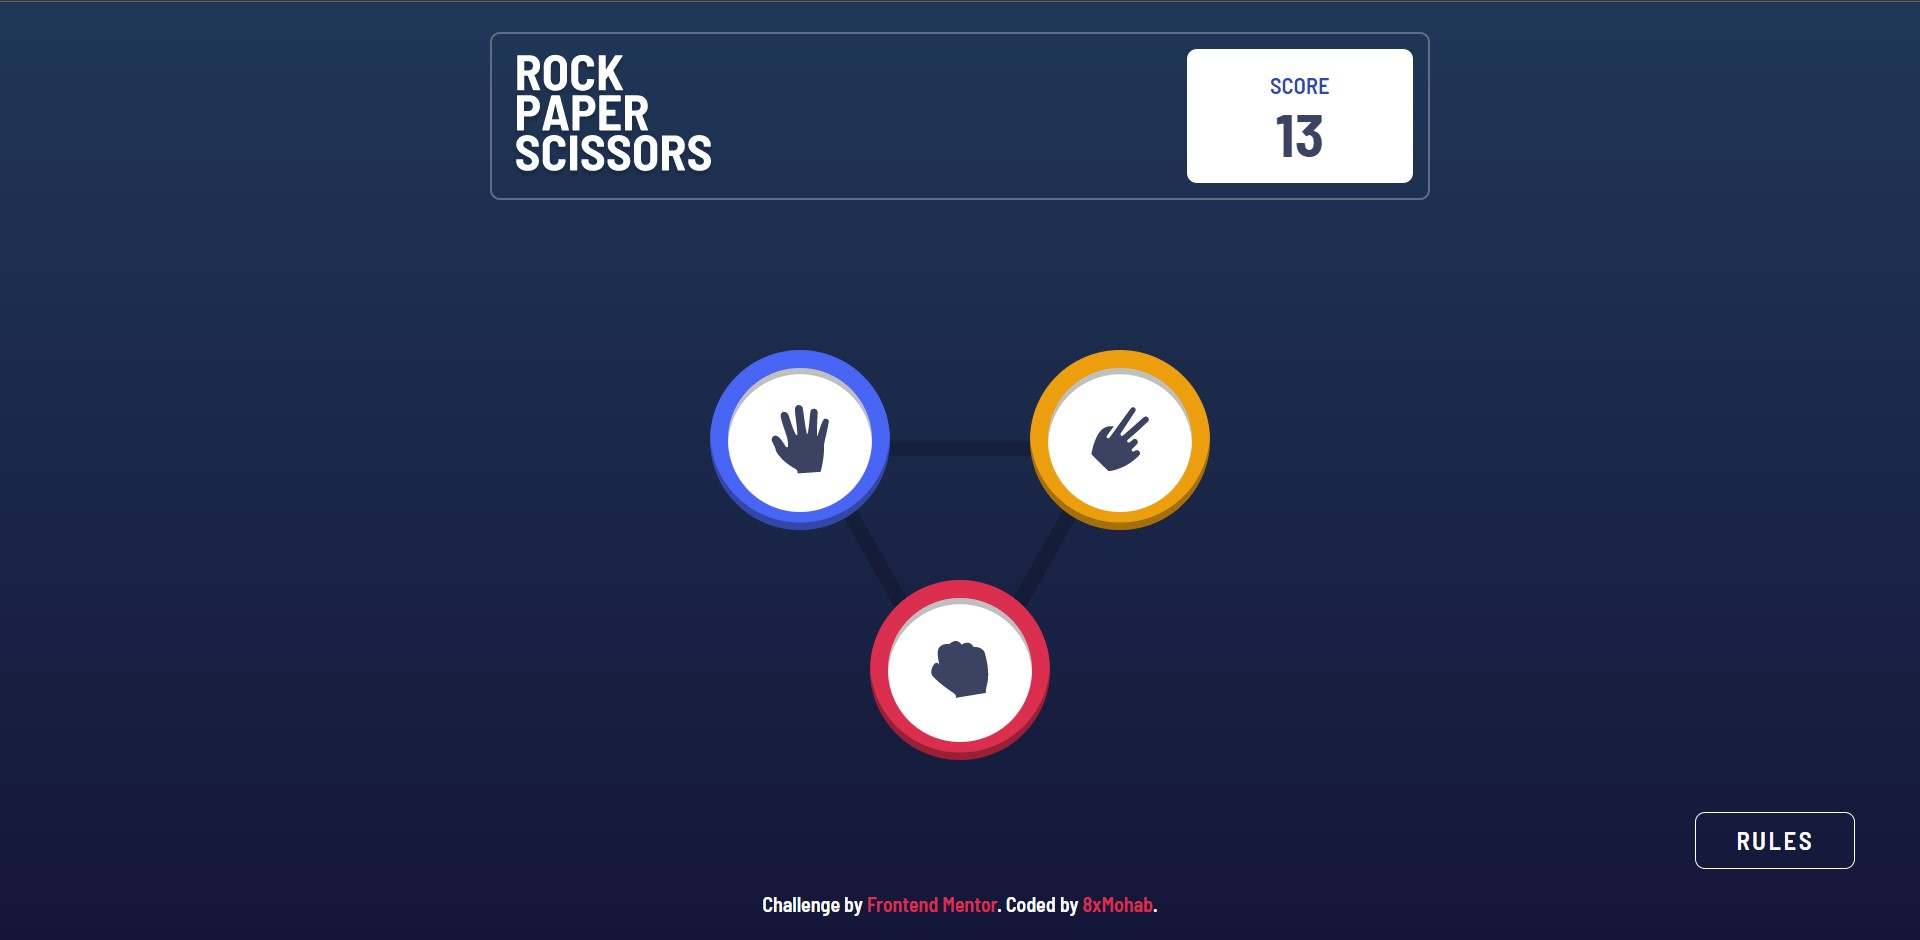
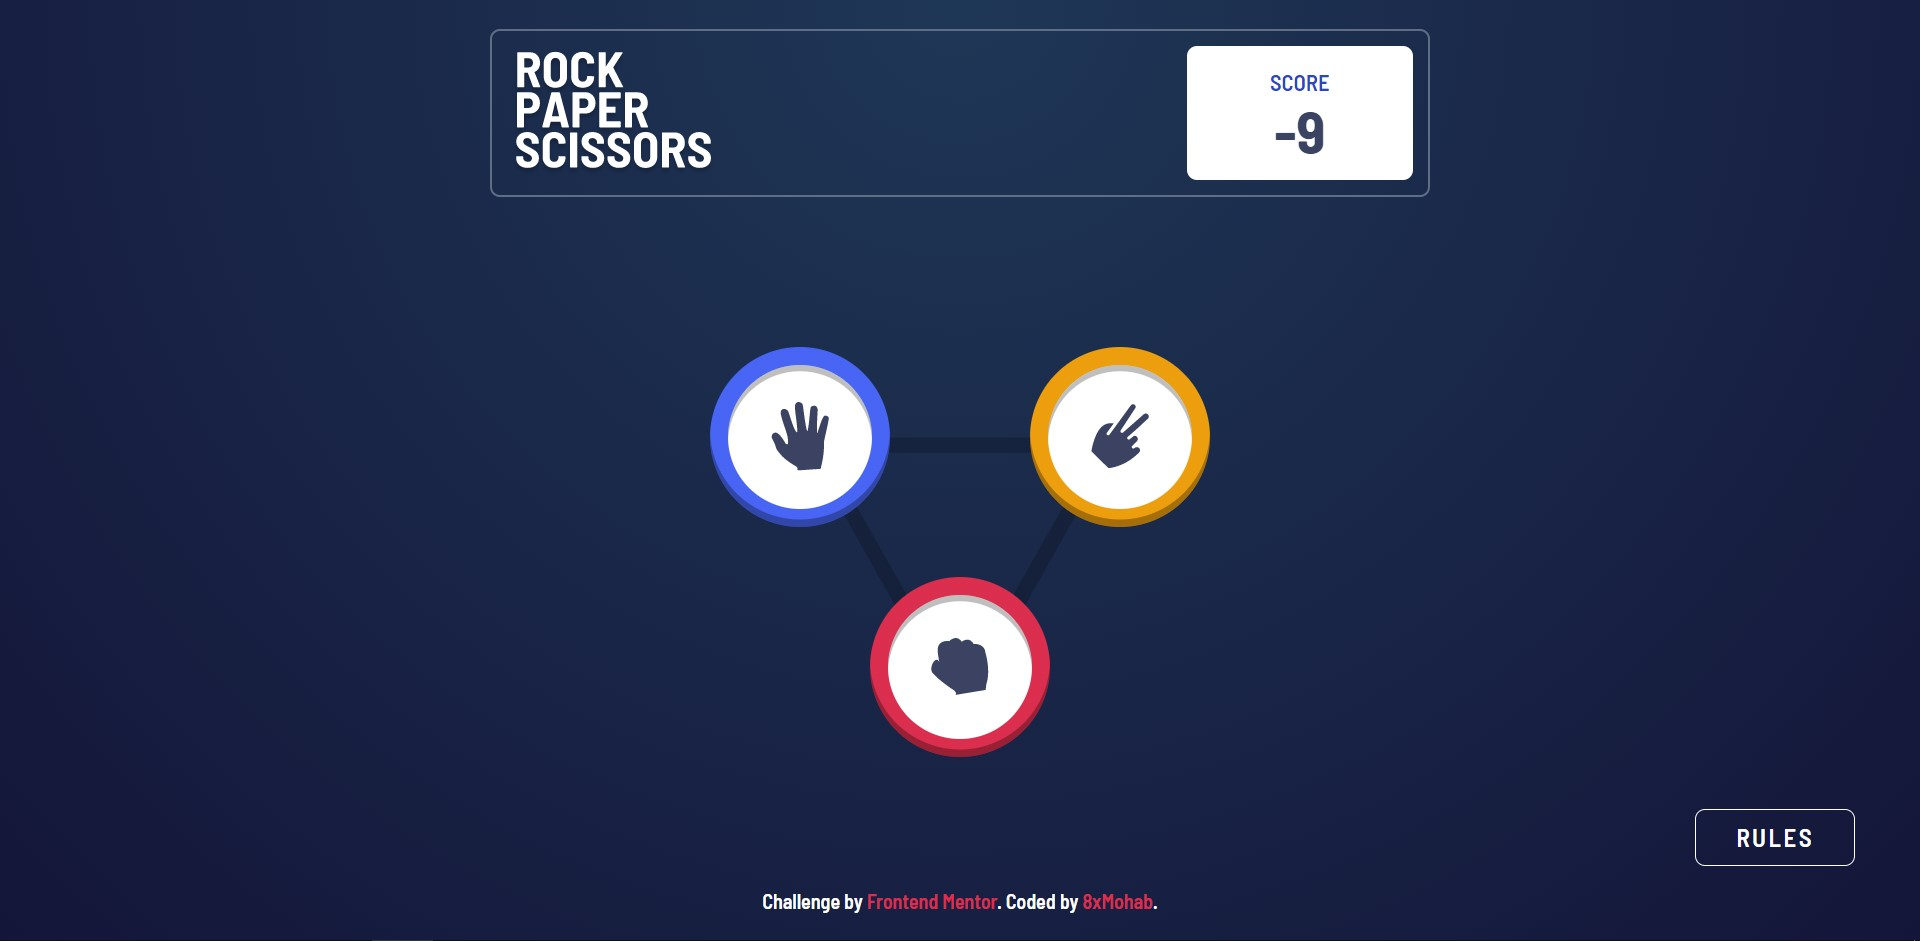
fixing radial gradient

diff --git a/src/main.css b/src/main.css
@@ -11,6 +11,17 @@
     background: -moz-linear-gradient(bottom, #141639, #203757);
     background: linear-gradient(to top, #141639, #203757);
   }
+  @media (min-width: 1024px) {
+    html {
+      /* Created with https://www.css-gradient.com */
+      background: #203757;
+      background-image: radial-gradient(
+        at top,
+        hsl(214, 47%, 23%) 0%,
+        hsl(237, 49%, 15%) 100%
+      );
+    }
+  }
 }
 @layer components {
   .winner-animation {
